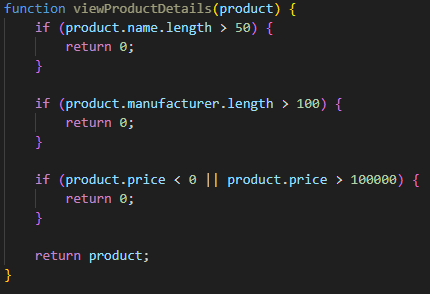
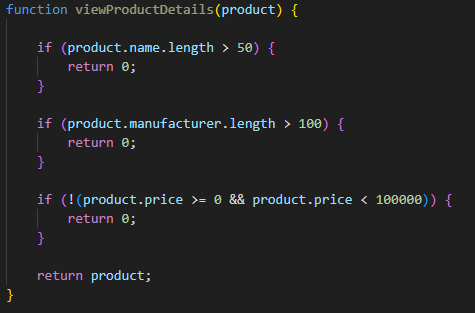
lab9

diff --git a/3-SoftwareConstruction/3-Program-Classes-Example/5-Program-Methods-Using-Example.md b/3-SoftwareConstruction/3-Program-Classes-Example/5-Program-Methods-Using-Example.md
@@ -1,0 +1,20 @@
+```js client
+function viewProductDetails(product) {
+	// спочатку перевіряємо значення поля name у об'єкті product
+	if ("WasserBaum".length > 50) { //довжина строки < 50, перевірку проходимо
+		return 0;
+	}
+
+	// потім перевіряємо значення поля manufacturer у об'єкті product
+	if ("BaumemnBerlin".length > 100) { //довжина строки < 100, перевірку проходимо
+		return 0;
+	}
+
+	// потім перевіряємо значення поля price у об'єкті product
+	if (!(3.2 >= 0 && 3.2 < 100000)) { //число знаходиться в діапазоні [0; 10000], перевірку проходимо
+		return 0;
+	}
+	
+	return product;
+}
+```

diff --git a/3-SoftwareConstruction/3-Program-Classes-Example/4-Program-Methods-Example.md b/3-SoftwareConstruction/3-Program-Classes-Example/4-Program-Methods-Example.md
@@ -11,7 +11,7 @@ function viewProductDetails(product) {
 	}
 
 	// спочатку перевіряємо значення поля price у об'єкті product
-	if (product.price < 0 || product.price > 100000) {
+	if (!(product.price >= 0 & product.price < 100000)) {
 		return 0;
 	}
 	//якщо одна із цих перевірок виконається, то програма поверне значення 0
